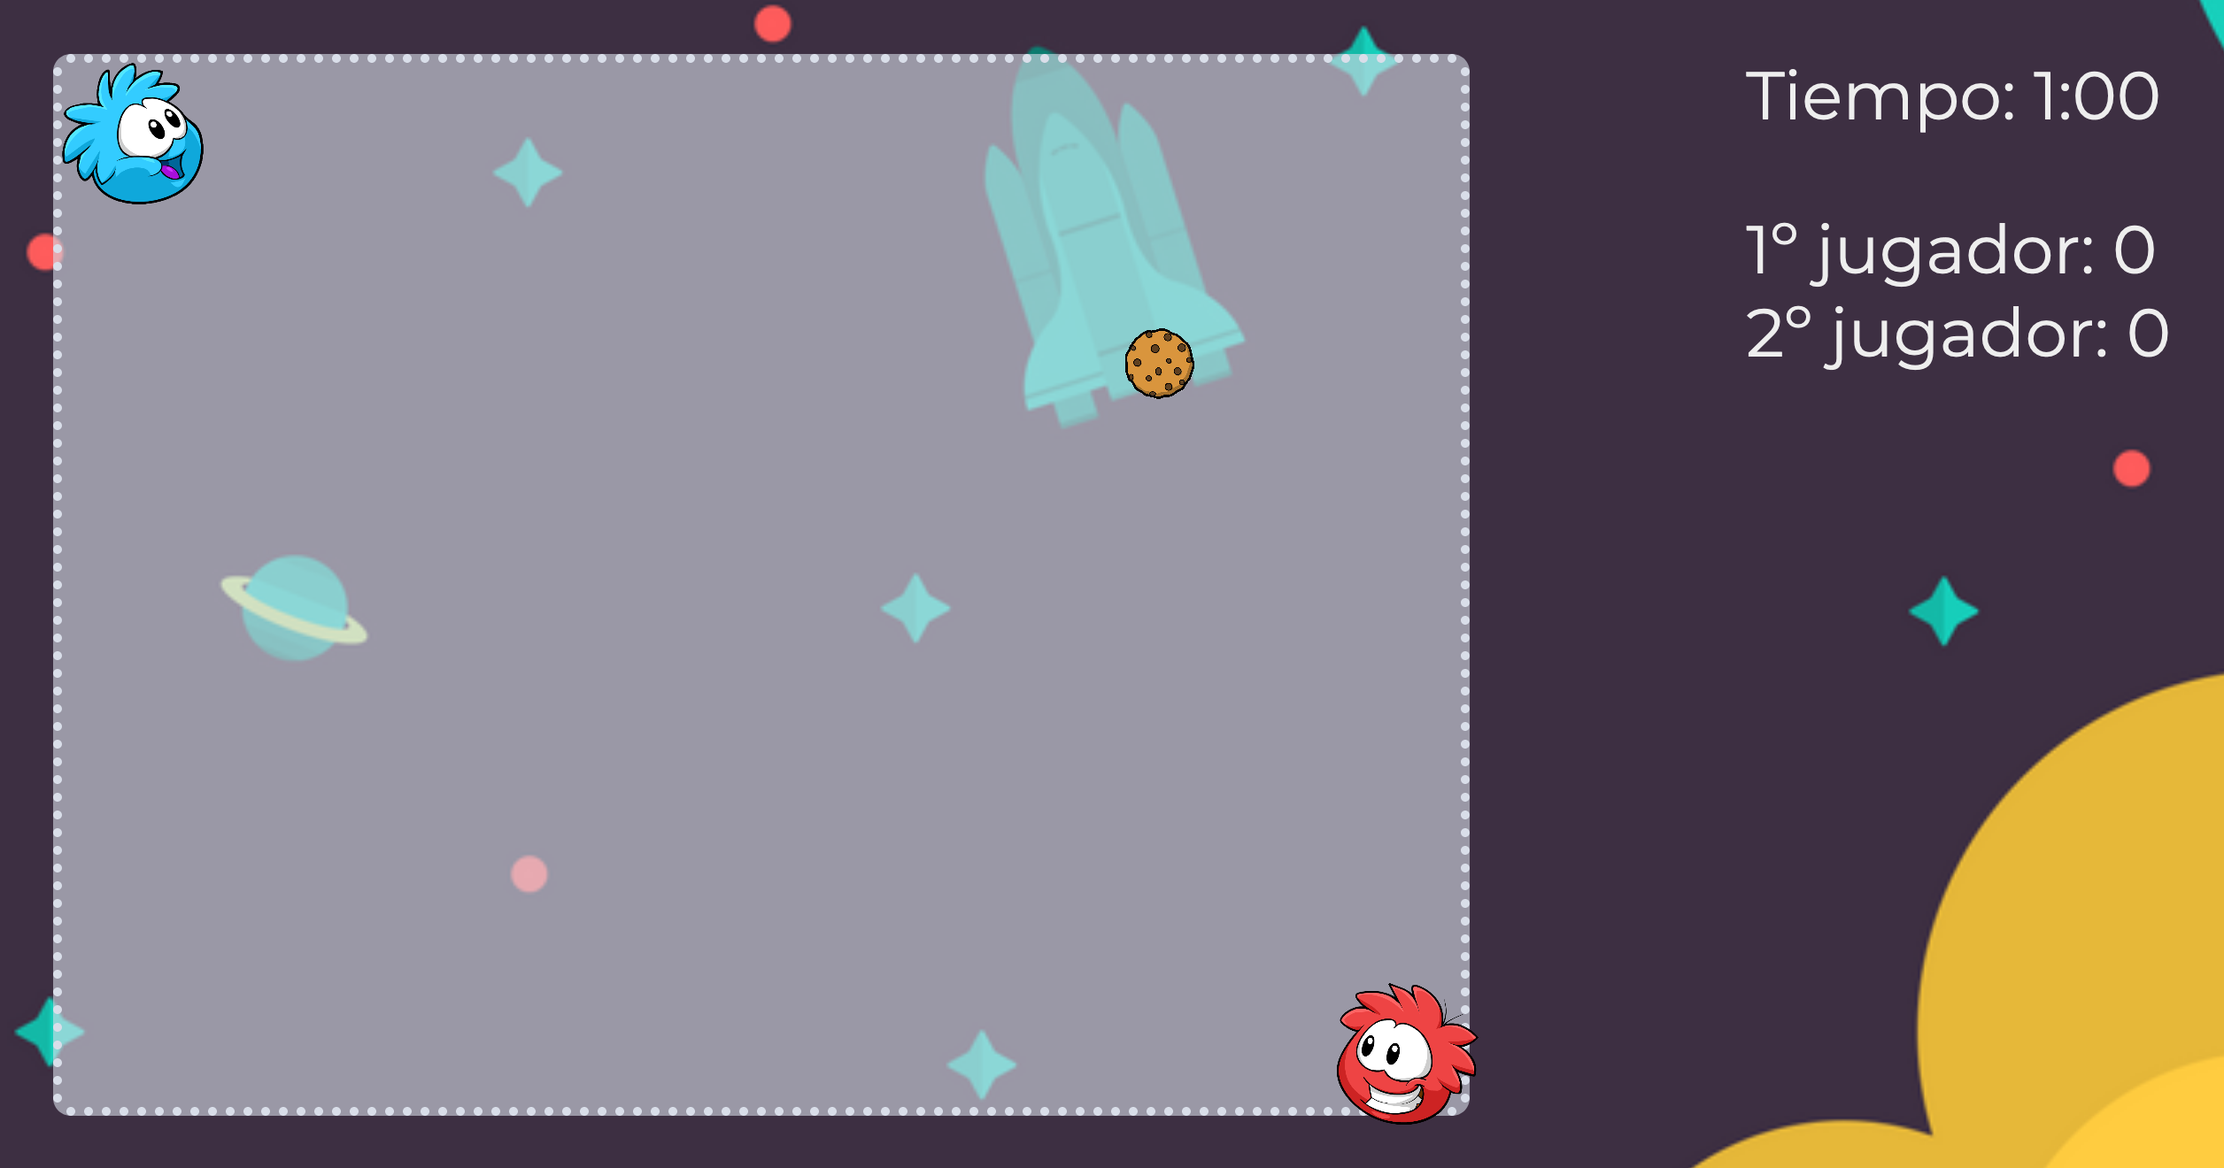
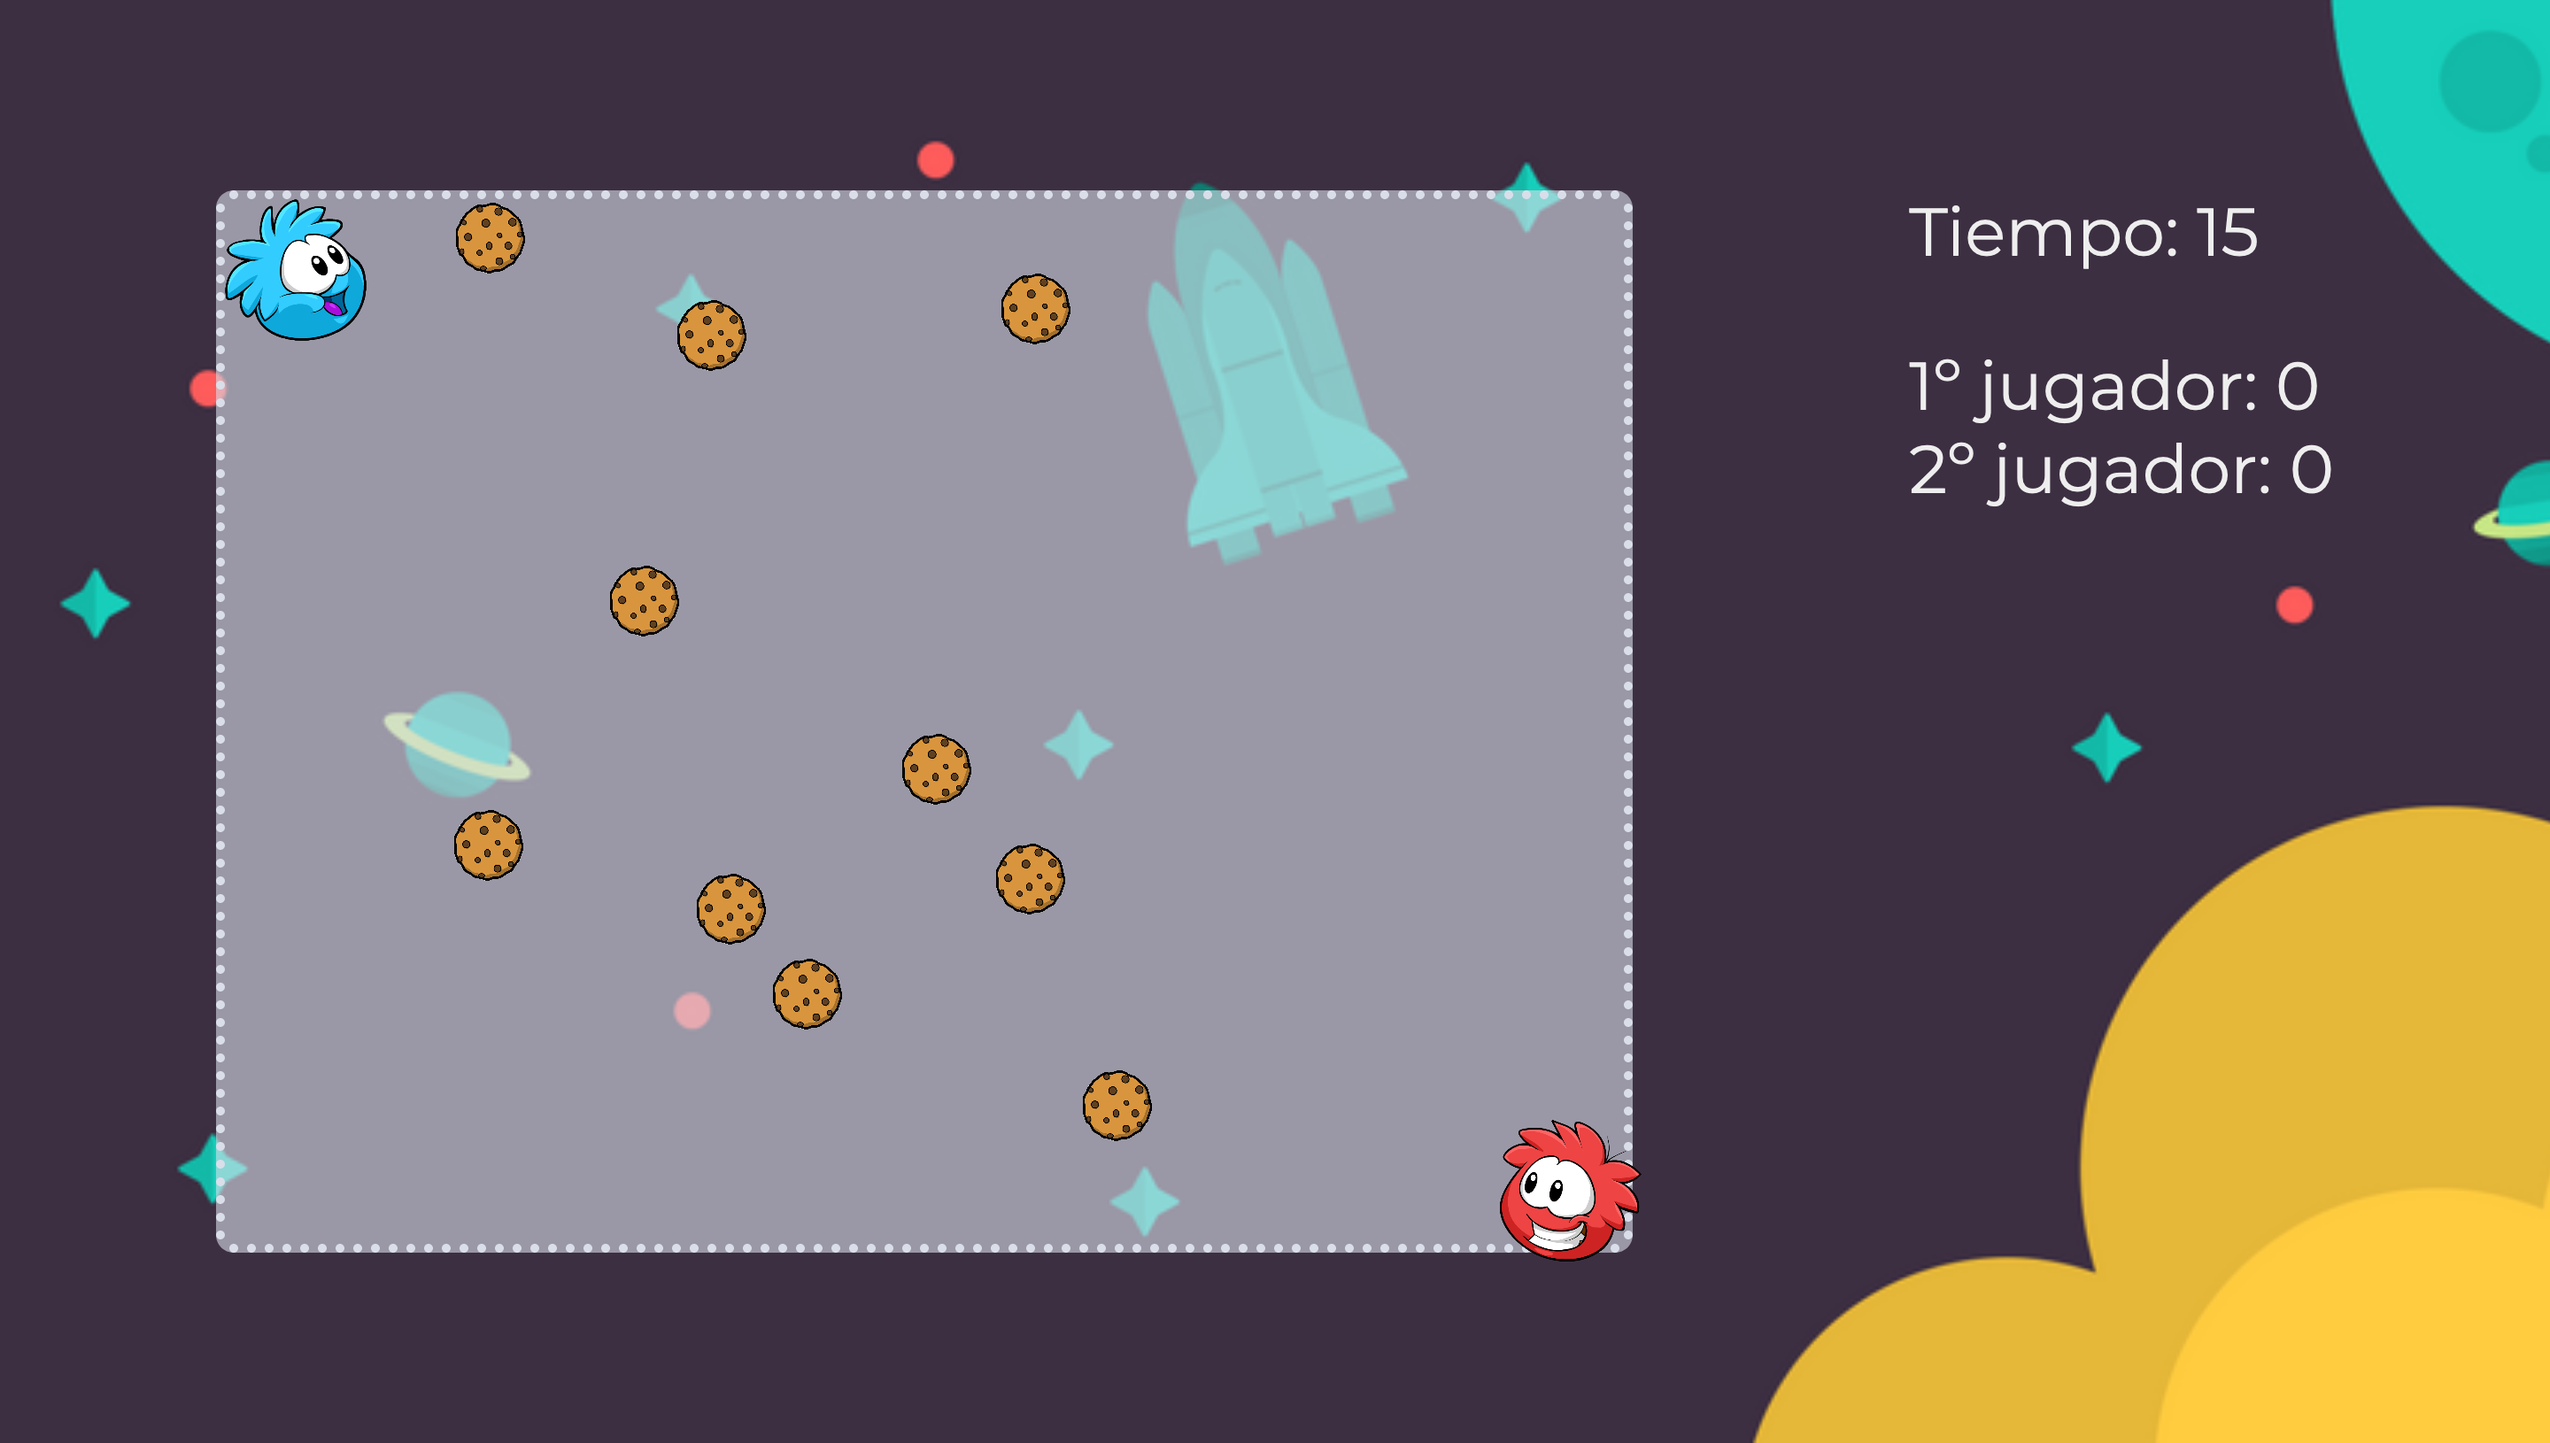
Cambios hechos

diff --git a/game.html b/game.html
@@ -47,11 +47,12 @@
     <img class="tiempo-acabo" src="./assets/images/over.png"/>
   </div>
   </div>
-  <!--<script type="text/javascript" src="https://code.jquery.com/jquery-3.1.1.slim.min.js"></script>
+  
+  <script type="text/javascript" src="https://code.jquery.com/jquery-3.1.1.slim.min.js"></script>
   <script type="text/javascript" src="js/comida.js"></script>
   <script type="text/javascript" src="js/person.js"></script>
   <script type="text/javascript" src="js/board.js"></script>
   <script type="text/javascript" src="js/timer.js"></script>
-  <script type="text/javascript" src="js/index.js"></script>-->
+  <script type="text/javascript" src="js/index.js"></script>
   </body>
 </html>
